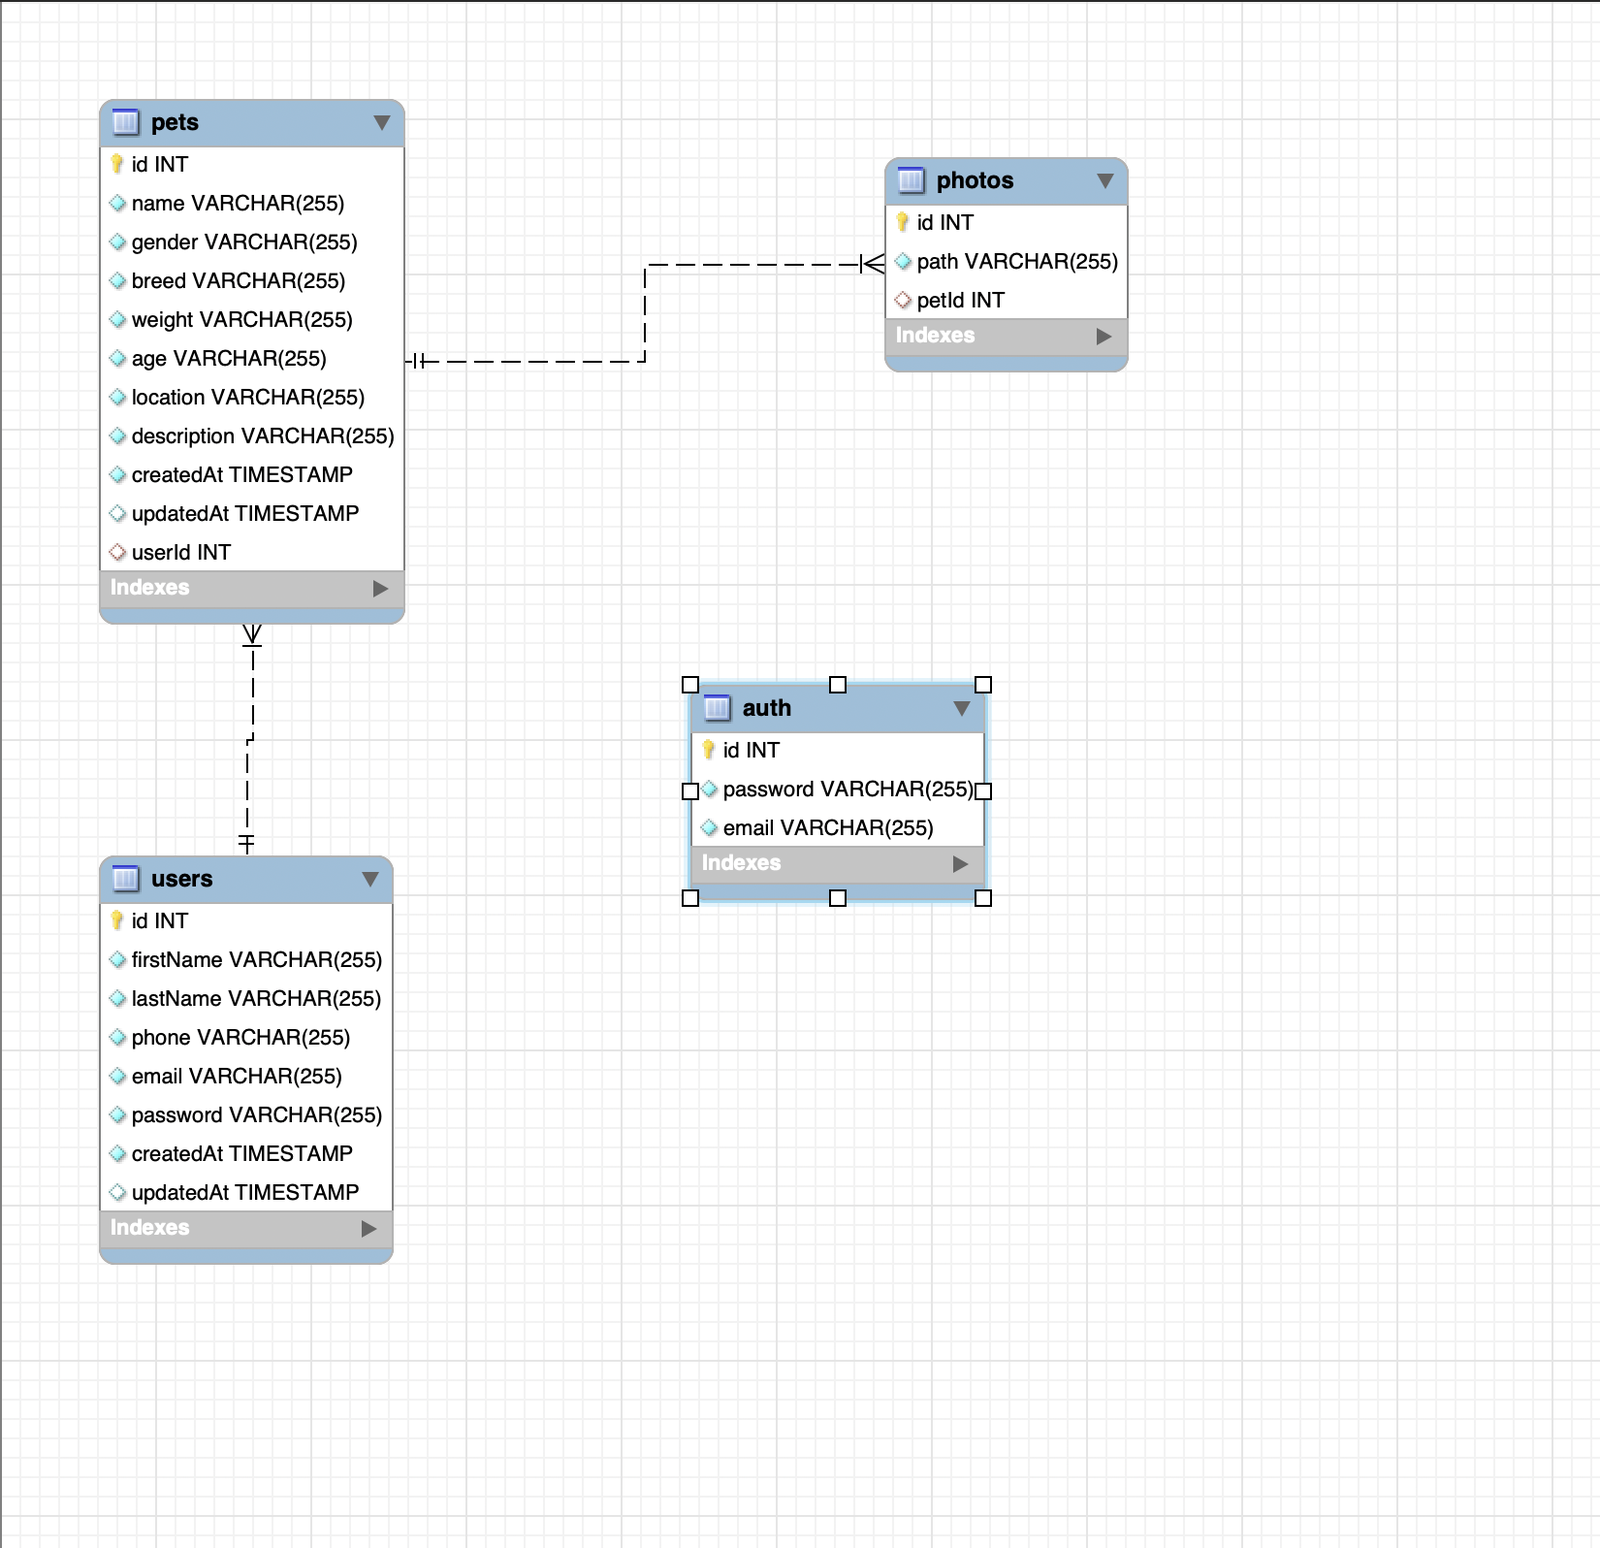
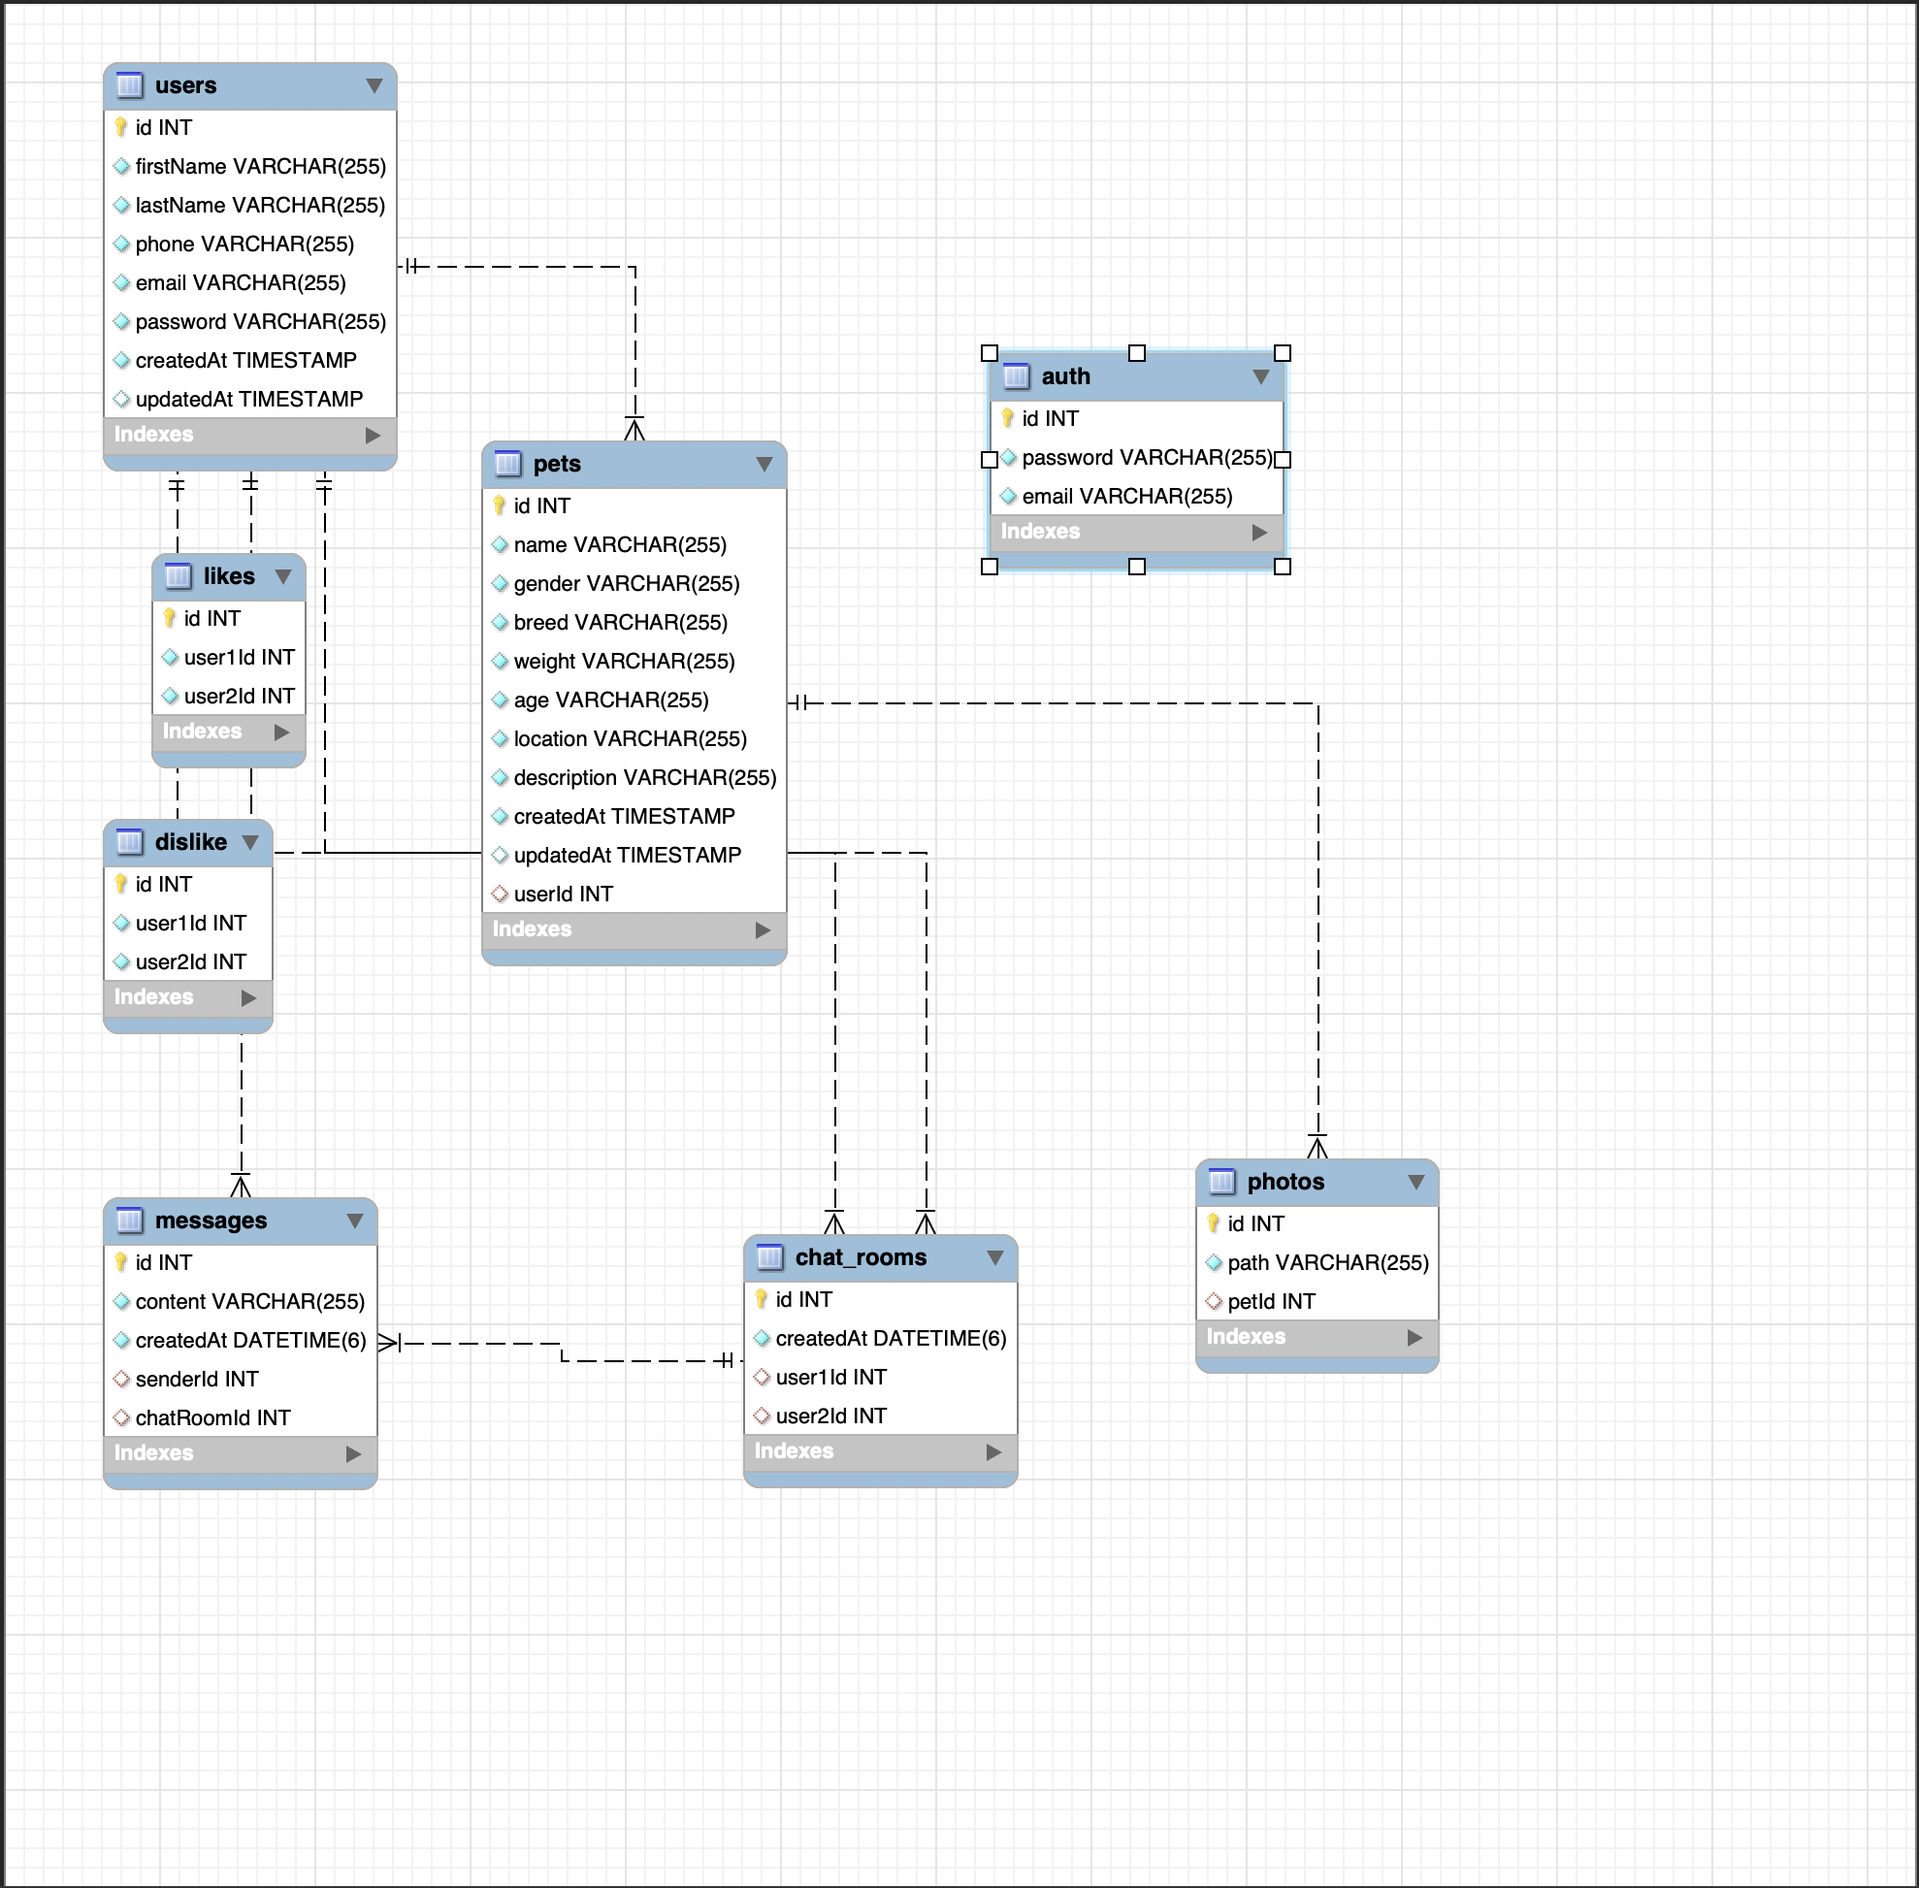
Chat init but not work

diff --git a/client/src/pages/chat/chat.tsx b/client/src/pages/chat/chat.tsx
@@ -1,11 +1,88 @@
-import React from "react";
-import { View, Text } from "react-native";
-import styles from "./chat_styles";
+import React, { useEffect, useState } from 'react';
+import { View, Text, TextInput, Button, FlatList } from 'react-native';
+import io from 'socket.io-client';
+import store from '../../redux/store';
+import styles from './chat_styles';
+import AsyncStorage from '@react-native-async-storage/async-storage';
 
-export default function Chat(props:any) {
+const Chat = () => {
+    const [message, setMessage] = useState<string>('');
+    const [messages, setMessages] = useState<any[]>([]);
+    const socket = io(store.getState().url);
+    const [userId, setUserId] = useState<string>('');
+    const [roomId, setRoomId] = useState<string>('');
+
+    useEffect(() => {
+        if (roomId == '' || roomId == null) return;
+        socket.emit('joinRoom', { roomId });
+
+        socket.on('message', (msg) => {
+            setMessages((prevMessages) => [...prevMessages, msg]);
+        });
+
+        return () => {
+            socket.off('message');
+        };
+    }, [roomId]);
+
+    useEffect(() => {
+        const fetchUserId = async () => {
+            const user = await AsyncStorage.getItem('user');
+            const userParsed = user ? JSON.parse(user) : null;
+            if (!userParsed) {
+                alert('Ha ocurrido un error, por favor, vuelve a iniciar sesión');
+                return;
+            }
+            setUserId(userParsed.id);
+            return userParsed.id;
+        };
+        const fetchRoomId = async (userId: number) => {
+            const token = await AsyncStorage.getItem('token');
+            const response = await fetch(`${store.getState().url}/chat/rooms/${userId}`, {
+                method: 'GET',
+                headers: {
+                    'Content-Type': 'application/json',
+                    'Authorization': `Bearer ${token}`
+                }
+            });
+            if (response.status === 200) {
+                const data = await response.json();
+                setRoomId(data.id);
+            } else {
+                console.log({status: response.status, response});
+                alert('Ha ocurrido un error, por favor, vuelve a iniciar sesión');
+            }
+        };
+        fetchUserId().then((userId: number) => {
+            fetchRoomId(userId);
+        });
+    }, []);
+
+    const sendMessage = () => {
+        socket.emit('message', { roomId, message, senderId: userId });
+        setMessage('');
+    };
+
     return (
         <View style={styles.container}>
-            <Text>Chat</Text>
+            <FlatList
+                style={styles.flatList}
+                data={messages}
+                renderItem={({ item }) => (
+                    <View>
+                        <Text>{item.sender.name}: {item.content}</Text>
+                    </View>
+                )}
+                keyExtractor={(item, index) => index.toString()}
+            />
+            <TextInput
+                value={message}
+                onChangeText={setMessage}
+                placeholder="Enter message"
+            />
+            <Button title="Send" onPress={sendMessage} />
         </View>
-    )
-}
+    );
+};
+
+export default Chat;

diff --git a/server/src/chat/chat.service.ts b/server/src/chat/chat.service.ts
@@ -1,0 +1,48 @@
+import { Injectable } from '@nestjs/common';
+import { InjectRepository } from '@nestjs/typeorm';
+import { Repository } from 'typeorm';
+import { ChatRoom } from './entities/chat.entity';
+import { Message } from './entities/chat.entity';
+import { User } from '../users/entities/user.entity';
+
+@Injectable()
+export class ChatService {
+  constructor(
+    @InjectRepository(ChatRoom)
+    private chatRoomRepository: Repository<ChatRoom>,
+    @InjectRepository(Message)
+    private messageRepository: Repository<Message>,
+    @InjectRepository(User)
+    private userService: Repository<User>,
+  ) {}
+
+  async createChatRoom(user1Id: number, user2Id: number): Promise<ChatRoom> {
+    const user1 = await this.userService.findOne({ where: { id: user1Id } });
+    const user2 = await this.userService.findOne({ where: { id: user2Id } });
+    const chatRoom = this.chatRoomRepository.create({ user1, user2 });
+    return this.chatRoomRepository.save(chatRoom);
+  }
+
+  async getChatRoom(id: number): Promise<ChatRoom> {
+    return this.chatRoomRepository.findOne({ where: { id }, relations: ['messages'] });
+  }
+
+  async getUserChatRooms(userId: number): Promise<ChatRoom[]> {
+    return this.chatRoomRepository.find({
+      where: [
+        { user1: { id: userId } },
+        { user2: { id: userId } }
+      ],
+      relations: ['user1', 'user2', 'messages'],
+    });
+  }
+
+  async saveMessage(content: string, sender: User, chatRoom: ChatRoom): Promise<Message> {
+    const message = this.messageRepository.create({ content, sender, chatRoom });
+    return this.messageRepository.save(message);
+  }
+
+  async getMessages(chatRoom: ChatRoom): Promise<Message[]> {
+    return this.messageRepository.find({ where: { chatRoom }, relations: ['sender'] });
+  }
+}

diff --git a/server/src/chat/chat/chat.gateway.ts b/server/src/chat/chat/chat.gateway.ts
@@ -1,0 +1,41 @@
+import { WebSocketGateway, WebSocketServer, SubscribeMessage, MessageBody, ConnectedSocket } from '@nestjs/websockets';
+import { Server, Socket } from 'socket.io';
+import { ChatService } from '../chat.service';
+import { ChatRoom } from '../entities/chat.entity';
+import { InjectRepository } from '@nestjs/typeorm';
+import { User } from 'src/users/entities/user.entity';
+import { Repository } from 'typeorm';
+
+@WebSocketGateway()
+export class ChatGateway {
+  @WebSocketServer()
+  server: Server;
+
+  constructor(
+    private chatService: ChatService,
+    @InjectRepository(User) private userService: Repository<User>,
+  ) { }
+
+  @SubscribeMessage('joinRoom')
+  async handleJoinRoom(
+    @MessageBody('roomId') roomId: number,
+    @ConnectedSocket() client: Socket,
+  ): Promise<void> {
+    const chatRoom = await this.chatService.getChatRoom(roomId);
+    client.join(`room-${chatRoom.id}`);
+  }
+
+  @SubscribeMessage('message')
+  async handleMessage(
+    @MessageBody('roomId') roomId: number,
+    @MessageBody('message') message: string,
+    @MessageBody('senderId') senderId: number,
+    @ConnectedSocket() client: Socket,
+  ): Promise<void> {
+    let chatRoom = await this.chatService.getChatRoom(roomId);
+    if(!chatRoom) return null;
+    const sender = await this.userService.findOne({ where: { id: senderId } });
+    const savedMessage = await this.chatService.saveMessage(message, sender, chatRoom);
+    this.server.to(`room-${chatRoom.id}`).emit('message', savedMessage);
+  }
+}

diff --git a/client/src/pages/match/match.tsx b/client/src/pages/match/match.tsx
@@ -120,9 +120,12 @@ export default function Match() {
                             <View key={index} style={styles.cardlist}>
                                 {like.user.pets.map((pet) => (
                                     <View style={styles.card} key={pet.id}>
-                                        <Image source={{ uri: pet.photoUrls[0] }} style={styles.image} blurRadius={isMatch(like.user.id) ? 0 : 30}/>
+                                        <Image source={{ uri: pet.photoUrls[0] }} style={styles.image} blurRadius={isMatch(like.user.id) ? 0 : 30} />
                                         {isMatch(like.user.id) && (
-                                            <Image source={require('../../../assets/footer/match_focus.png')} style={styles.heart} />
+                                            <>
+                                                <Image source={require('../../../assets/footer/match_focus.png')} style={styles.heart} />
+                                                <Text style={styles.namePet}>{pet.name}</Text>
+                                            </>
                                         )}
                                     </View>
                                 ))}

diff --git a/client/src/pages/home/home.tsx b/client/src/pages/home/home.tsx
@@ -117,11 +117,29 @@ export default function Home(props: any) {
         if (data.haslike) {
             setPetMatched(pet);
             setIsMatch(true);
+            await createRoom(userParsed.id, pet.user.id);
             setTimeout(() => {
                 setIsMatch(false);
                 setPetMatched(null);
             }, 4500);
         }
+    }
+
+    async function createRoom(user1Id: number, user2Id: number) {
+        const token = await AsyncStorage.getItem('token');
+        const response = await fetch(store.getState().url + '/chat/room', {
+            method: 'POST',
+            headers: {
+                'Content-Type': 'application/json',
+                'Authorization': 'Bearer ' + token
+            },
+            body: JSON.stringify({
+                user1Id: user1Id,
+                user2Id: user2Id
+            })
+        });
+        const data = await response.json();
+        console.log(data);
     }
 
     async function dislikePet(petId: number) {

diff --git a/server/src/chat/entities/chat.entity.ts b/server/src/chat/entities/chat.entity.ts
@@ -1,0 +1,46 @@
+import {
+    Entity,
+    Column,
+    PrimaryGeneratedColumn,
+    ManyToOne,
+    OneToMany,
+    CreateDateColumn,
+  } from 'typeorm';
+  import { User } from '../../users/entities/user.entity';
+  
+  @Entity({ name: 'chat_rooms' })
+  export class ChatRoom {
+    @PrimaryGeneratedColumn()
+    id: number;
+  
+    @ManyToOne(() => User)
+    user1: User;
+  
+    @ManyToOne(() => User)
+    user2: User;
+  
+    @OneToMany(() => Message, (message) => message.chatRoom)
+    messages: Message[];
+  
+    @CreateDateColumn()
+    createdAt: Date;
+  }
+  
+  @Entity({ name: 'messages' })
+  export class Message {
+    @PrimaryGeneratedColumn()
+    id: number;
+  
+    @Column()
+    content: string;
+  
+    @ManyToOne(() => User)
+    sender: User;
+  
+    @ManyToOne(() => ChatRoom, (chatRoom) => chatRoom.messages)
+    chatRoom: ChatRoom;
+  
+    @CreateDateColumn()
+    createdAt: Date;
+  }
+  

diff --git a/server/src/chat/chat.controller.ts b/server/src/chat/chat.controller.ts
@@ -1,0 +1,30 @@
+import { Controller, Post, Body, Param, Get } from '@nestjs/common';
+import { ChatService } from './chat.service';
+
+@Controller('chat')
+export class ChatController {
+  constructor(
+    private readonly chatService: ChatService,
+  ) {}
+
+  @Post('room')
+  async createChatRoom(@Body('user1Id') user1Id: number, @Body('user2Id') user2Id: number) {
+    return this.chatService.createChatRoom(user1Id, user2Id);
+  }
+
+  @Get('room/:id')
+  async getChatRoom(@Param('id') id: number) {
+    return this.chatService.getChatRoom(id);
+  }
+
+  @Get('room/:id/messages')
+  async getMessages(@Param('id') id: number) {
+    const chatRoom = await this.chatService.getChatRoom(id);
+    return this.chatService.getMessages(chatRoom);
+  }
+
+  @Get('rooms/:userId')
+  async getUserChatRooms(@Param('userId') userId: number) {
+    return this.chatService.getUserChatRooms(userId);
+  }
+}

diff --git a/server/src/chat/chat.module.ts b/server/src/chat/chat.module.ts
@@ -1,0 +1,14 @@
+import { Module } from '@nestjs/common';
+import { ChatGateway } from './chat/chat.gateway';
+import { TypeOrmModule } from '@nestjs/typeorm';
+import { User } from 'src/users/entities/user.entity';
+import { ChatRoom, Message } from './entities/chat.entity';
+import { ChatController } from './chat.controller';
+import { ChatService } from './chat.service';
+
+@Module({
+  imports: [TypeOrmModule.forFeature([User, ChatRoom, Message])],
+  providers: [ChatGateway, ChatService],
+  controllers: [ChatController],
+})
+export class ChatModule {}

diff --git a/server/src/app.module.ts b/server/src/app.module.ts
@@ -8,6 +8,7 @@ import { PetsModule } from './pets/pets.module';
 import { PhotosModule } from './photos/photos.module';
 import { LikesModule } from './likes/likes.module';
 import { DislikeModule } from './dislike/dislike.module';
+import { ChatModule } from './chat/chat.module';
 
 @Module({
   imports: [
@@ -27,6 +28,7 @@ import { DislikeModule } from './dislike/dislike.module';
     PhotosModule,
     LikesModule,
     DislikeModule,
+    ChatModule,
   ],
   controllers: [AppController],
   providers: [AppService],

diff --git a/server/src/chat/chat/chat.gateway.spec.ts b/server/src/chat/chat/chat.gateway.spec.ts
@@ -1,0 +1,18 @@
+import { Test, TestingModule } from '@nestjs/testing';
+import { ChatGateway } from './chat.gateway';
+
+describe('ChatGateway', () => {
+  let gateway: ChatGateway;
+
+  beforeEach(async () => {
+    const module: TestingModule = await Test.createTestingModule({
+      providers: [ChatGateway],
+    }).compile();
+
+    gateway = module.get<ChatGateway>(ChatGateway);
+  });
+
+  it('should be defined', () => {
+    expect(gateway).toBeDefined();
+  });
+});

diff --git a/client/src/pages/chat/chat_styles.ts b/client/src/pages/chat/chat_styles.ts
@@ -5,8 +5,16 @@ export default StyleSheet.create({
         flex: 1,
         backgroundColor: '#f1f1f1',
         width: '100%',
-        height: '100%',
         alignItems: 'center',
         justifyContent: 'center',
     },
+    flatList: {
+        width: '100%',
+        marginBottom: 10,
+        marginTop: 50,
+        display: 'flex',
+        flexDirection: 'column-reverse',
+        paddingLeft: 30,
+        paddingRight: 30,
+    }
 });

diff --git a/client/src/redux/state/url.ts b/client/src/redux/state/url.ts
@@ -4,7 +4,7 @@ import { createSlice } from "@reduxjs/toolkit";
 // const initial_state = 'http://192.168.9.84:5000' //wifi clase
 // const initial_state = 'http://192.168.208.127:5000'// cable 
 // const initial_state = 'http://192.168.8.148:5000'
-const initial_state = 'http://192.168.1.140:8000'
+const initial_state = 'http://192.168.1.76:8000'
 
 export const urlSlice = createSlice({
     name: 'url',
